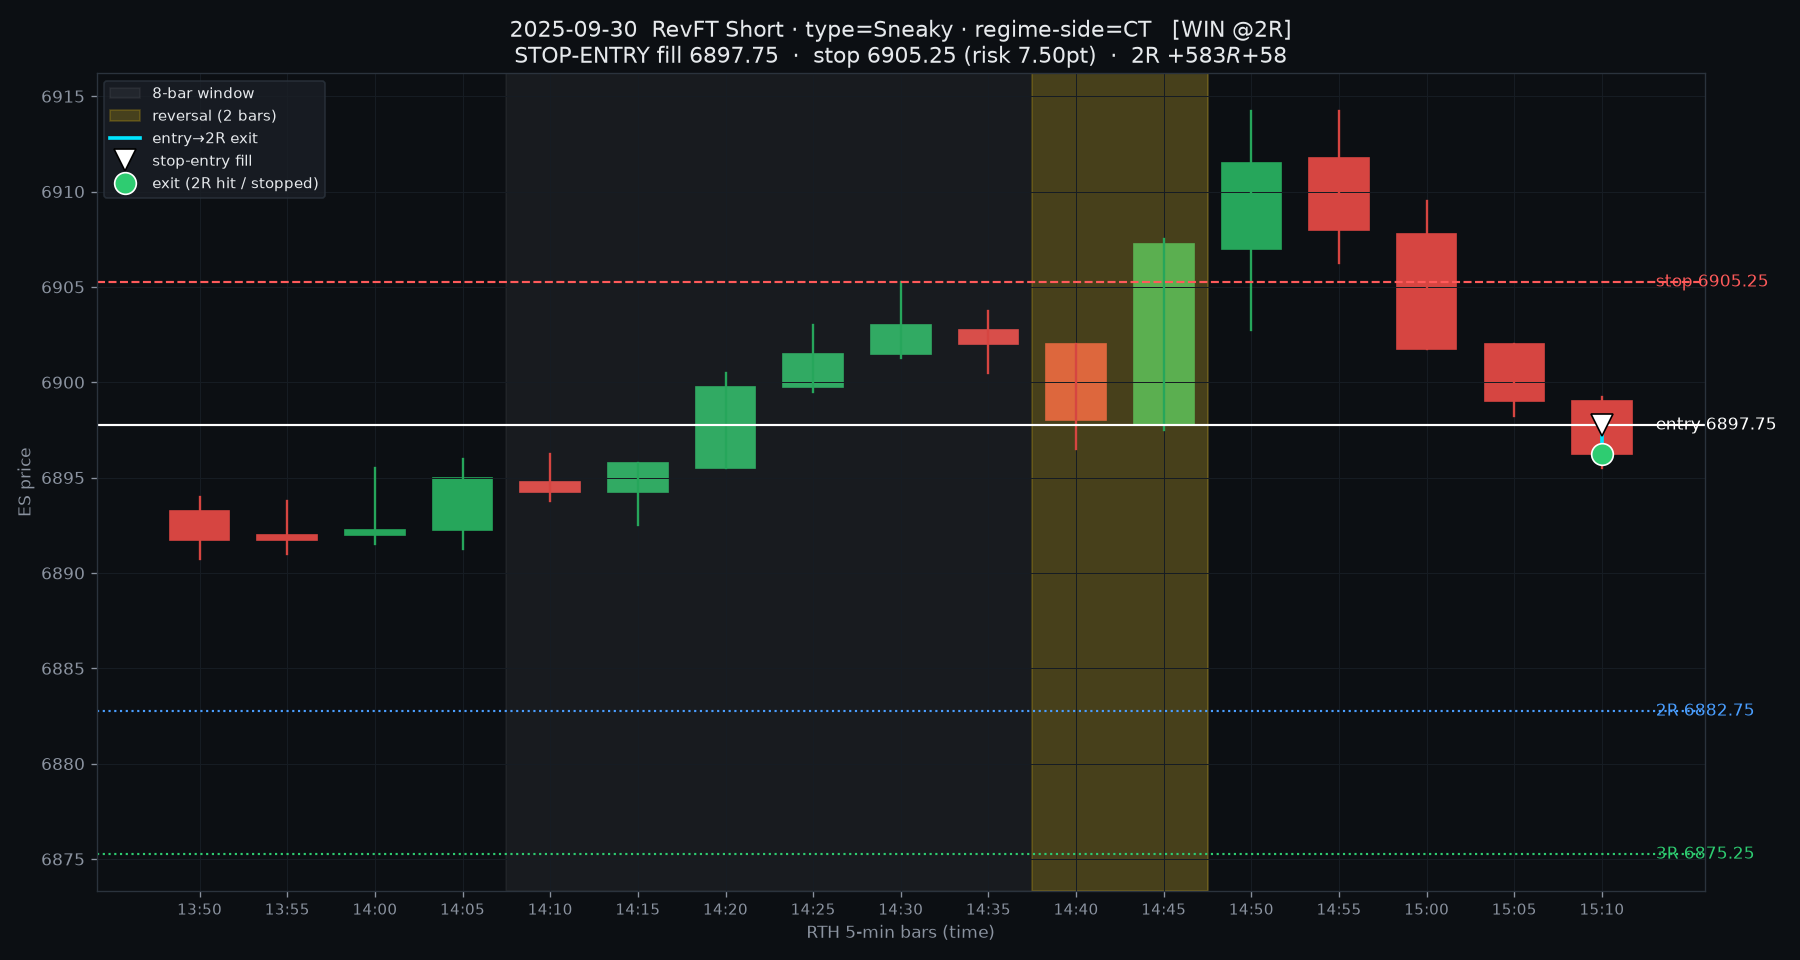
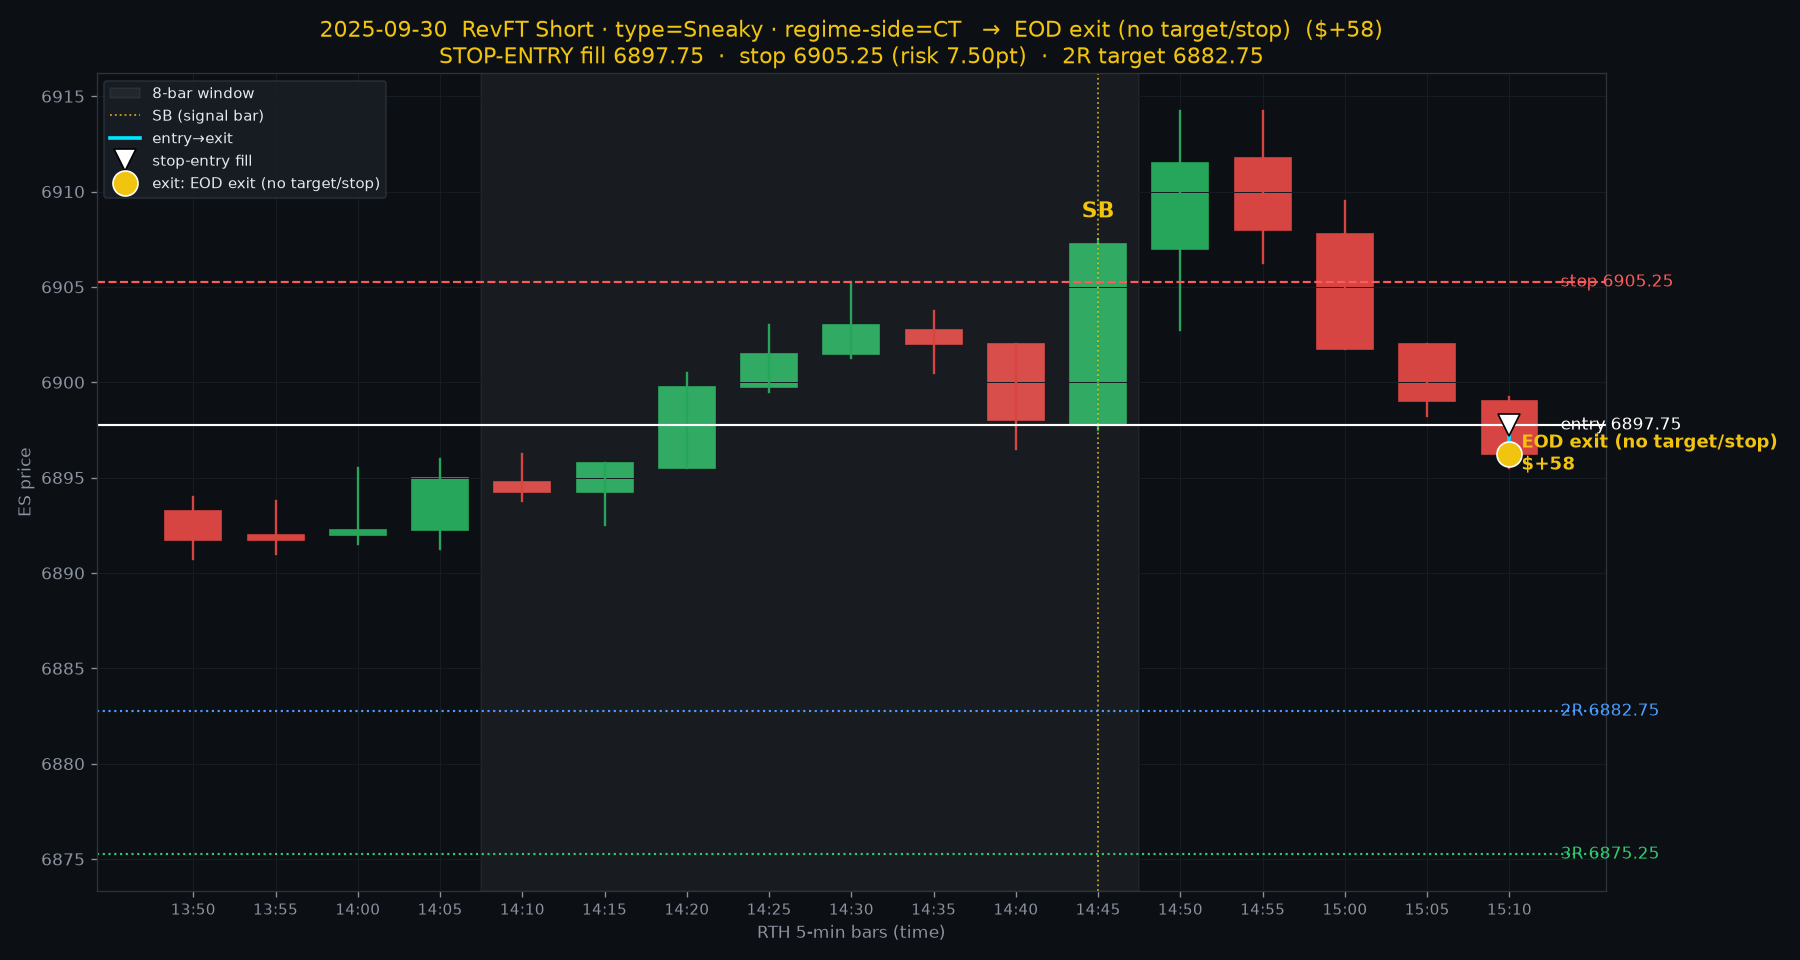
chart(S85): mark the SB (signal bar) explicitly, drop 2-bar shading
Gold dotted line + 'SB' label at the signal bar instead of shading 2 bars. Combined with the
TARGET/STOPPED/EOD exit label, the late-fill problem is now obvious (e.g. 09-30: SB 14:45, fill
15:10 last bar, EOD exit +58, 2R never hit).

diff --git a/scripts/regime_revft_chart_full.py b/scripts/regime_revft_chart_full.py
@@ -46,7 +46,12 @@ def main():
             ax.add_patch(Rectangle((j-.34,min(bar.Open,bar.Close)),.68,max(abs(bar.Close-bar.Open),.03),color=col))
         gi=lambda k:k-i0
         ax.axvspan(gi(bi-N+1)-.5,gi(bi)+.5,color="#ffffff",alpha=.05,label="8-bar window")
-        ax.axvspan(gi(bi-1)-.5,gi(bi)+.5,color="#f1c40f",alpha=.22,label="reversal (2 bars)")
+        # mark the Signal Bar (SB) — no 2-bar shading
+        sbx=gi(bi); sbhi=seg.High.iloc[bi-i0]; sblo=seg.Low.iloc[bi-i0]
+        ax.axvline(sbx,color="#f1c40f",lw=1.1,ls=":",alpha=.8,label="SB (signal bar)")
+        ax.annotate("SB",(sbx, sbhi if short else sblo),color="#f1c40f",fontsize=13,fontweight="bold",
+                    ha="center",va="bottom" if short else "top",
+                    xytext=(0,10 if short else -10),textcoords="offset points")
         for yv,c,ls,lab in [(r.entry,"#ffffff","-","entry "+str(r.entry)),(r.stop,"#ff5a5a","--","stop "+str(r.stop)),
                             (tgt2,"#4a9eff",":",f"2R {tgt2:.2f}"),(tgt3,"#2ecc71",":",f"3R {tgt3:.2f}")]:
             ax.axhline(yv,color=c,lw=1.3,ls=ls); ax.text(len(seg)-.5,yv,"  "+lab,color=c,fontsize=10,va="center")
